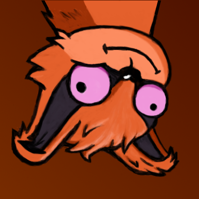
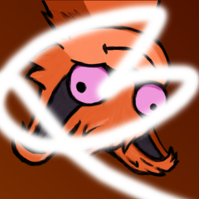
PreBlurred GradientMask

diff --git a/EmbedGenerator/EmbedGenerator/EmbedGenerator.cs b/EmbedGenerator/EmbedGenerator/EmbedGenerator.cs
@@ -4,16 +4,14 @@ using System.Drawing.Text;
 using System.Globalization;
 using ImageProcessor;
 using ImageProcessor.Imaging;
+using ImageProcessor.Imaging.Filters.Photo;
 
 namespace EmbedGenerator;
 
 internal class EmbedGenerator {
     #region Constants
 
-    private static readonly Color CoverGradientTint = Color.FromArgb(40, 255, 255, 255);
     private static readonly Color CoverImageTint = Color.FromArgb(255, 160, 160, 160);
-    private const int CoverGradientBlur = 18;
-    private const int CoverImageBlur = 4;
 
     private readonly NumberFormatInfo _numberFormatInfo = new() {
         NumberGroupSeparator = "",
@@ -29,6 +27,7 @@ internal class EmbedGenerator {
     private readonly Image _avatarMask;
     private readonly Image _avatarShadow;
     private readonly Image _gradientMask;
+    private readonly Image _gradientMaskBlurred;
     private readonly Image _backgroundImage;
     private readonly Image _coverMask;
     private readonly Image _finalMask;
@@ -45,6 +44,7 @@ internal class EmbedGenerator {
         Image avatarShadow,
         Image backgroundImage,
         Image gradientMask,
+        Image gradientMaskBlurred,
         Image coverMask,
         Image finalMask,
         FontFamily fontFamily
@@ -58,6 +58,7 @@ internal class EmbedGenerator {
         _avatarShadow = avatarShadow.ResizeIfNecessary(_layout.AvatarOverlayRectangle.Size);
         _backgroundImage = backgroundImage.ResizeIfNecessary(_layout.FullRectangle.Size);
         _gradientMask = gradientMask.ResizeIfNecessary(_layout.FullRectangle.Size);
+        _gradientMaskBlurred = gradientMaskBlurred.ResizeIfNecessary(_layout.FullRectangle.Size);
         _coverMask = coverMask.ResizeIfNecessary(_layout.FullRectangle.Size);
         _finalMask = finalMask.ResizeIfNecessary(_layout.FullRectangle.Size);
 
@@ -102,9 +103,10 @@ internal class EmbedGenerator {
             out var cornerAreaRectangle
         );
 
-        var gradient = GenerateGradient(leftColor, rightColor);
-        var cover = GenerateCover(coverImage, gradient);
-        var border = GenerateBorder(cornerAreaRectangle, gradient);
+        var borderGradient = GenerateGradient(_gradientMask, leftColor, rightColor);
+        var coverGradient = GenerateGradient(_gradientMaskBlurred, leftColor, rightColor);
+        var cover = GenerateCover(coverImage, coverGradient);
+        var border = GenerateBorder(cornerAreaRectangle, borderGradient);
         var avatar = GenerateAvatar(avatarImage);
 
         factory.OverlayRegion(cover).OverlayRegion(border);
@@ -171,8 +173,9 @@ internal class EmbedGenerator {
 
     private Image GenerateAvatar(Image avatarImage) {
         var factory = new ImageFactory()
-            .Load(avatarImage)
+            .Load(_whitePixelBitmap).Filter(MatrixFilters.Invert)
             .Resize(new ResizeLayer(_layout.AvatarRectangle.Size, ResizeMode.Stretch))
+            .OverlayRegion(avatarImage)
             .MaskRegion(_avatarMask, _layout.AvatarRectangle.Size);
 
         return factory.Image;
@@ -194,9 +197,9 @@ internal class EmbedGenerator {
 
     #endregion
 
-    #region GenerateGradient
+    #region GenerateGradients
 
-    private Image GenerateGradient(Color leftColor, Color rightColor) {
+    private Image GenerateGradient(Image mask, Color leftColor, Color rightColor) {
         var gradientBrush = new LinearGradientBrush(
             new Point(0, _layout.Height),
             new Point(_layout.Width, 0),
@@ -206,7 +209,7 @@ internal class EmbedGenerator {
         var factory = new ImageFactory().Load(_fullSizeEmptyBitmap);
         var graphics = Graphics.FromImage(factory.Image);
         graphics.FillRectangle(gradientBrush, _layout.FullRectangle);
-        factory.MaskRegion(_gradientMask);
+        factory.MaskRegion(mask);
 
         return factory.Image;
     }
@@ -238,17 +241,11 @@ internal class EmbedGenerator {
     #region GenerateCover
 
     private Image GenerateCover(Image coverImage, Image gradient) {
-        var fadedGradient = new ImageFactory()
-            .Load(gradient)
-            .Tint(CoverGradientTint)
-            .GaussianBlur(CoverGradientBlur);
-
         var factory = new ImageFactory()
             .Load(coverImage)
             .Resize(new ResizeLayer(_layout.Size, ResizeMode.Crop))
-            // .GaussianBlur(CoverImageBlur)
             .Tint(CoverImageTint)
-            .OverlayRegion(fadedGradient.Image);
+            .OverlayRegion(gradient);
 
         return factory.Image;
     }

diff --git a/EmbedGenerator/Program.cs b/EmbedGenerator/Program.cs
@@ -20,6 +20,7 @@ internal static class Program {
     private static readonly Image AvatarShadow = LoadImage("AvatarShadow.png");
     private static readonly Image BackgroundImage = LoadImage("Background.png");
     private static readonly Image GradientMask = LoadImage("GradientMask.png");
+    private static readonly Image GradientMaskBlurred = LoadImage("GradientMaskBlurred.png");
     private static readonly Image CoverMask = LoadImage("CoverMask.png");
     private static readonly Image FinalMask = LoadImage("FinalMask.png");
 
@@ -36,7 +37,7 @@ internal static class Program {
         fontCollection.AddFontFile(Path.Combine(TestFilesDirectory, "Teko-SemiBold.ttf"));
         var tekoFontFamily = fontCollection.Families[0];
 
-        var scale = 0.8f;
+        var scale = 1.0f;
         var embedGenerator = new EmbedGenerator(
             new Size((int)(500 * scale), (int)(300 * scale)),
             StarImage,
@@ -44,6 +45,7 @@ internal static class Program {
             AvatarShadow,
             BackgroundImage,
             GradientMask,
+            GradientMaskBlurred,
             CoverMask,
             FinalMask,
             tekoFontFamily
